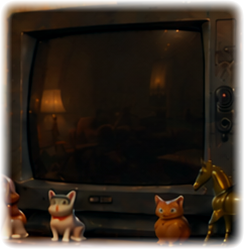
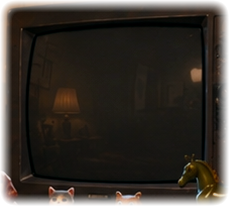
Fernseher aus, Figuren sitzen richtig

diff --git a/quest-ostern.html b/quest-ostern.html
@@ -394,8 +394,8 @@
     // Der leere Nagel: nimmt das Bild wieder entgegen. Nur da, solange es fehlt.
     { id: 'w_nagel', ansicht: 'wohnzimmer', x: 415, y: 0, w: 275, h: 188, typ: 'ziel', sichtbarWenn: 'bild_ab',
       nimmt: 'gemaelde', loescht: 'bild_ab', verbraucht: true, antwort: 'Hängt wieder gerade.', label: 'Nagel in der Wand' },
-    { id: 'w_tv', ansicht: 'wohnzimmer', x: 1408, y: 145, w: 232, h: 237, typ: 'ausschnitt', zustand: 'tv_aus',
-      patch: 'bilder/wz-tv-aus.png', patchX: 1402, patchY: 139, patchW: 244, patchH: 249, label: 'Fernseher' },
+    { id: 'w_tv', ansicht: 'wohnzimmer', x: 1408, y: 148, w: 217, h: 200, typ: 'ausschnitt', zustand: 'tv_aus',
+      patch: 'bilder/wz-tv-aus.png', patchX: 1402, patchY: 142, patchW: 229, patchH: 206, label: 'Fernseher' },
     // --- Das Bild in der Hand, Rückseite ---
     { id: 'bi_fach', ansicht: 'bild_hinten', x: 510, y: 600, w: 570, h: 210, typ: 'ausschnitt', zustand: 'fach_offen',
       bildAus: 'bilder/bild-hinten-offen.png', label: 'Fach in der Rückwand' },

diff --git a/UEBERGABE-OSTERN.md b/UEBERGABE-OSTERN.md
@@ -165,7 +165,7 @@ Vier Ausschnitte, alle mit `nah: ''` — **Nahaufnahmen fehlen noch**:
 - `w_nagel` derselbe Fleck, typ `ziel`, nur sichtbar wenn `bild_ab`. Nimmt das
   Bild wieder entgegen und hebt `bild_ab` auf. Damit lässt sich das Bild
   zurückhängen.. Der Rahmen reicht bis y=190, ein kürzerer Ausschnitt lässt die Rahmenunterkante stehen.
-- `w_tv` Fernseher (1400,145 240×200) — an und aus
+- `w_tv` Fernseher (1408,148 217×200) — an und aus. Der Flicken stammt aus einem eigenen Bild, das pixelgenau zum Grundbild passt; darum stehen die Porzellanfiguren exakt gleich.
 - `w_sessel_leer` Overlay ohne Anfisa (150,80 850×770), schaltet auf `anfisa_weg`
 - `w_frau` Anfisa im Sessel (Flicken 200,93 520×377, Klickfläche 240,192 430×233),
   typ `phasen`, nimmt `kippen` entgegen und setzt damit `anfisa_weg`:
